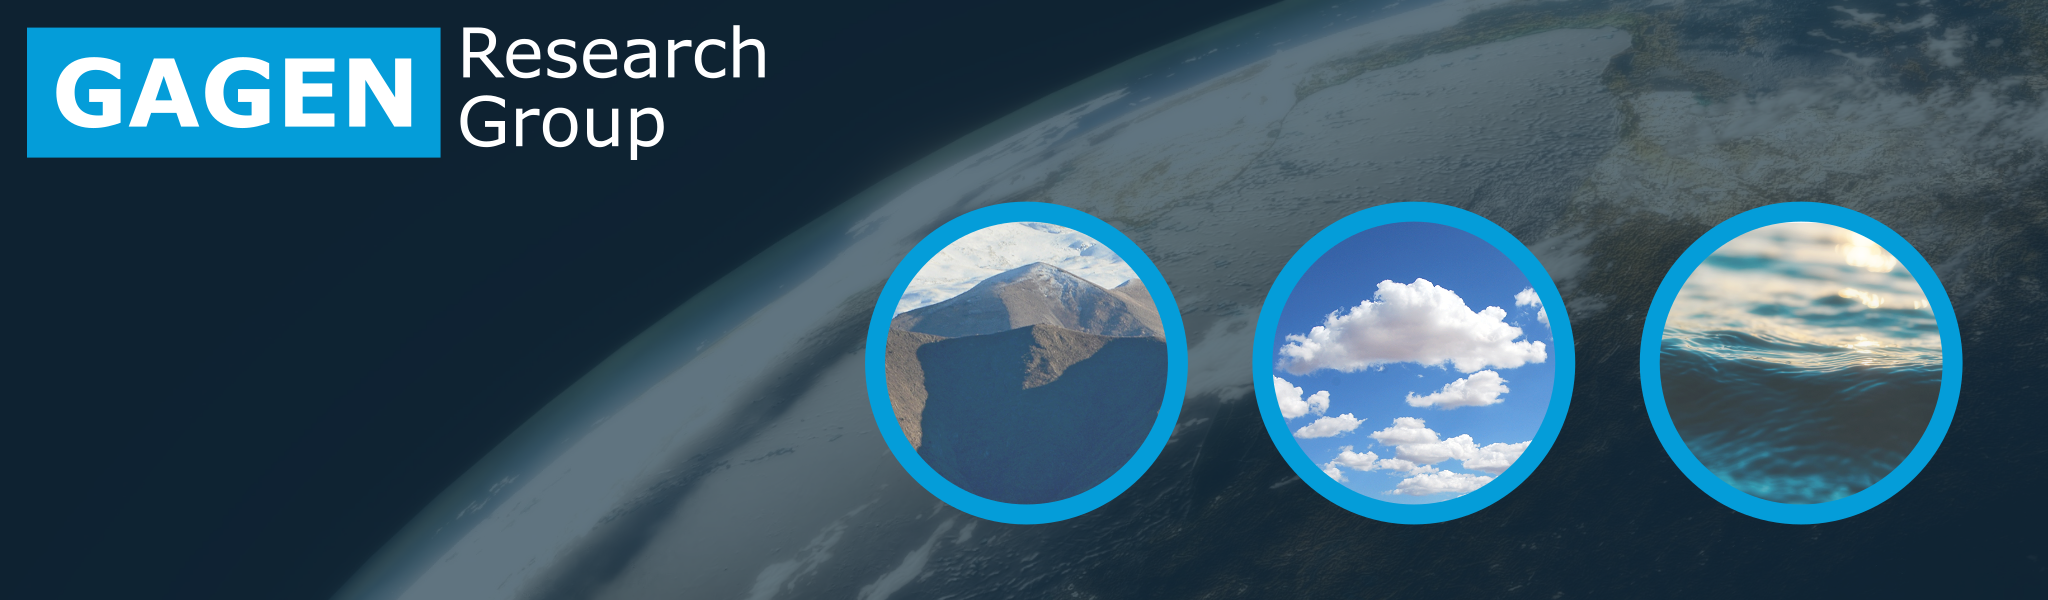
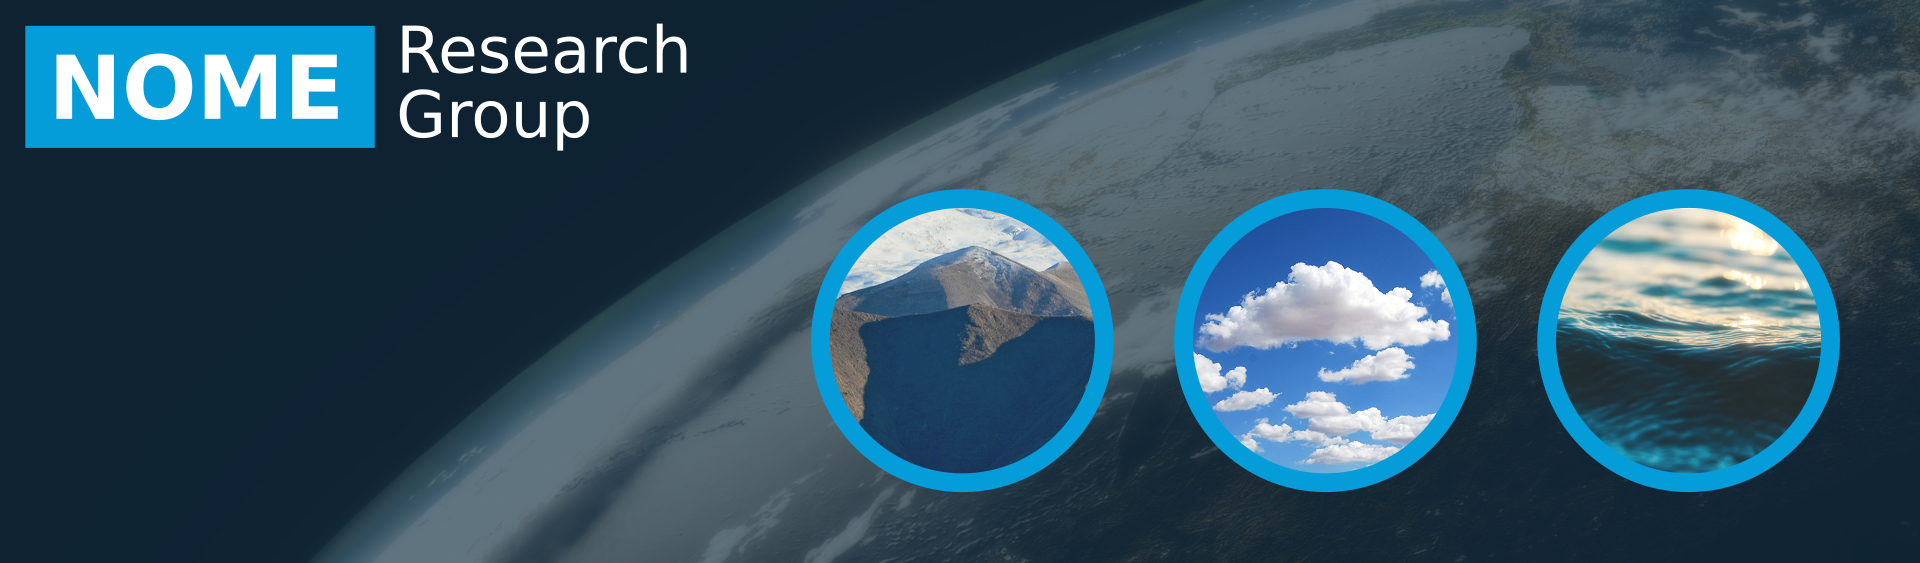
Atualização do template para publicação

Changed region(s): [[0.0312, 0.0302, 0.375, 0.2718]]

diff --git a/contato.html b/contato.html
@@ -31,7 +31,7 @@
     <header class="card border-0">
         <img class="card-img" src="images/banner.png" alt="banner">
         <div class="card-img-overlay sr-only">
-            <h1 class="display-4 text-white"><strong>GAGEN</strong> Research Group</h1>
+            <h1 class="display-4 text-white"><strong>NOME</strong> Research Group</h1>
         </div>
     </header>
 
@@ -40,7 +40,7 @@
         <h2 class="text-center">Formas de contato</h2>
         
         <div class="row pt-5">
-            <div class="col-5">
+            <div class="col-md-5">
                 <h4>
                     <i class="fas fa-map-marker-alt"></i>
                     Endereço
@@ -67,7 +67,7 @@
                     <a href="mailto:" rel="E-mail" target="_blank">contato@nome.org.br</a>
                 </p>
             </div>
-            <div class="col-7">
+            <div class="col-md-7">
                 <iframe src="https://www.google.com/maps/embed?pb=!1m18!1m12!1m3!1d1865.0067791136726!2d-41.38998983161366!3d-20.790739381509162!2m3!1f0!2f0!3f0!3m2!1i1024!2i768!4f13.1!3m3!1m2!1s0xbbe71d08ccb731%3A0x43f2a4d6bcdc9cb3!2sDepartamento+de+Ci%C3%AAncias+Florestais+e+da+Madeira+-+CCAE%2FUFES!5e0!3m2!1spt-BR!2sbr!4v1556632159367!5m2!1spt-BR!2sbr" class="w-100 h-100" frameborder="0" style="border:0" allowfullscreen></iframe>
             </div>
         </div>

diff --git a/artigo.html b/artigo.html
@@ -30,7 +30,7 @@
     <header class="card border-0">
         <img class="card-img" src="images/banner.png" alt="banner">
         <div class="card-img-overlay sr-only">
-            <h1 class="display-4 text-white"><strong>GAGEN</strong> Research Group</h1>
+            <h1 class="display-4 text-white"><strong>NOME</strong> Research Group</h1>
         </div>
     </header>
 

diff --git a/index.html b/index.html
@@ -30,7 +30,7 @@
     <header class="card border-0">
         <img class="card-img" src="images/banner.png" alt="banner">
         <div class="card-img-overlay sr-only">
-            <h1 class="display-4 text-white"><strong>GAGEN</strong> Research Group</h1>
+            <h1 class="display-4 text-white"><strong>NOME</strong> Research Group</h1>
         </div>
     </header>
 

diff --git a/membros.html b/membros.html
@@ -30,7 +30,7 @@
     <header class="card border-0">
         <img class="card-img" src="images/banner.png" alt="banner">
         <div class="card-img-overlay sr-only">
-            <h1 class="display-4 text-white"><strong>GAGEN</strong> Research Group</h1>
+            <h1 class="display-4 text-white"><strong>NOME</strong> Research Group</h1>
         </div>
     </header>
 

diff --git a/publicacoes.html b/publicacoes.html
@@ -30,7 +30,7 @@
     <header class="card border-0">
         <img class="card-img" src="images/banner.png" alt="banner">
         <div class="card-img-overlay sr-only">
-            <h1 class="display-4 text-white"><strong>GAGEN</strong> Research Group</h1>
+            <h1 class="display-4 text-white"><strong>NOME</strong> Research Group</h1>
         </div>
     </header>
 

diff --git a/README.md b/README.md
@@ -1,1 +1,15 @@
-site para grupo de pesquisa
+## Site para grupo de pesquisas acadêmicas
+Este projeto tem como objetivo a criação de um canal para divulgação de pesquisas de grupos e laboratórios da Universidade Federal do Espírito Santo.
+
+## Funcionamento
+
+Esse template está dividido nas seguintes páginas:
+
+* Início: apresentação dos objetivos do grupo, seus interesses e instituições envolvidas;
+* Publicações: Lista com resumos e links para as principais publicações do grupo;
+* Membros: Lista dos membros da equipe e links para seus respectivos curriculos Lattes;
+* Contato: página com contato e endereço do grupo.
+
+## Uso
+
+Este projeto está sob a licença MIT, e poderá ser utilizado como base para criação de sites para outros grupos de pesquisa.
